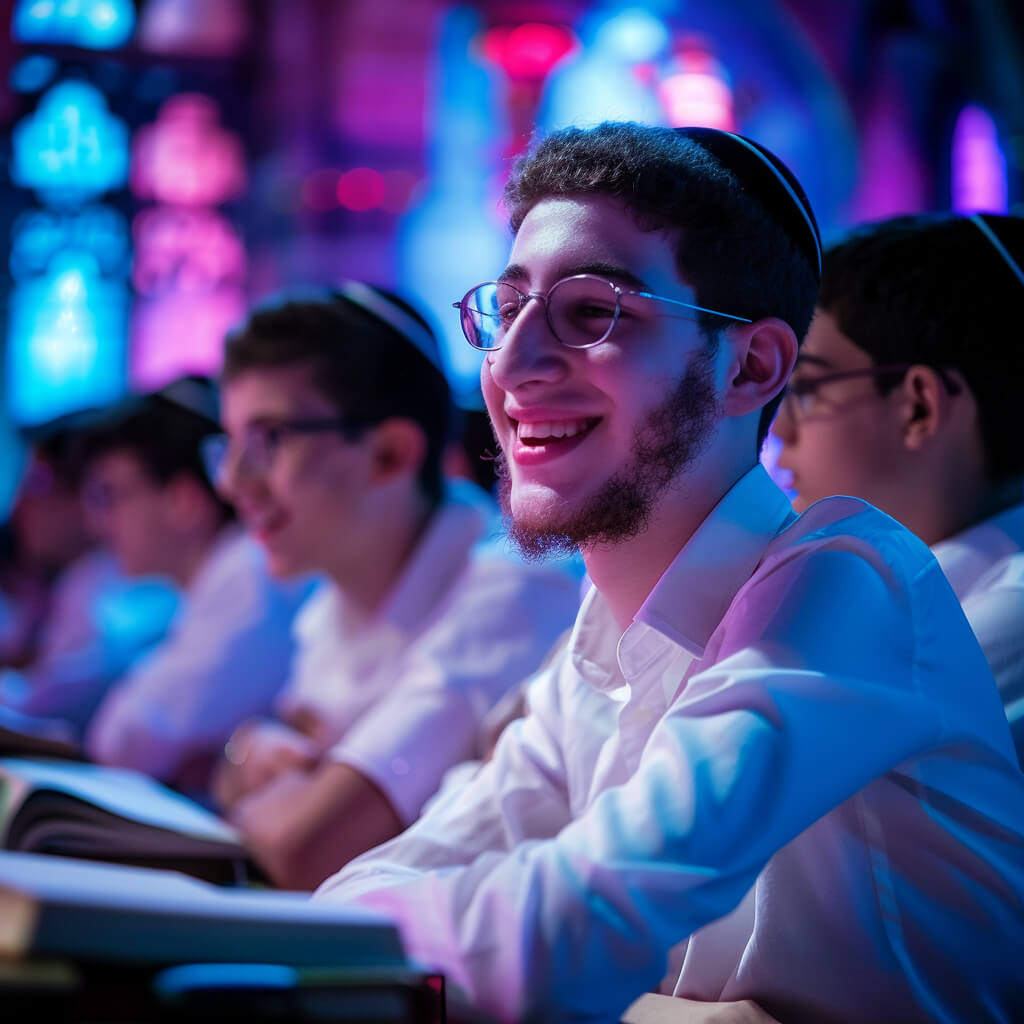
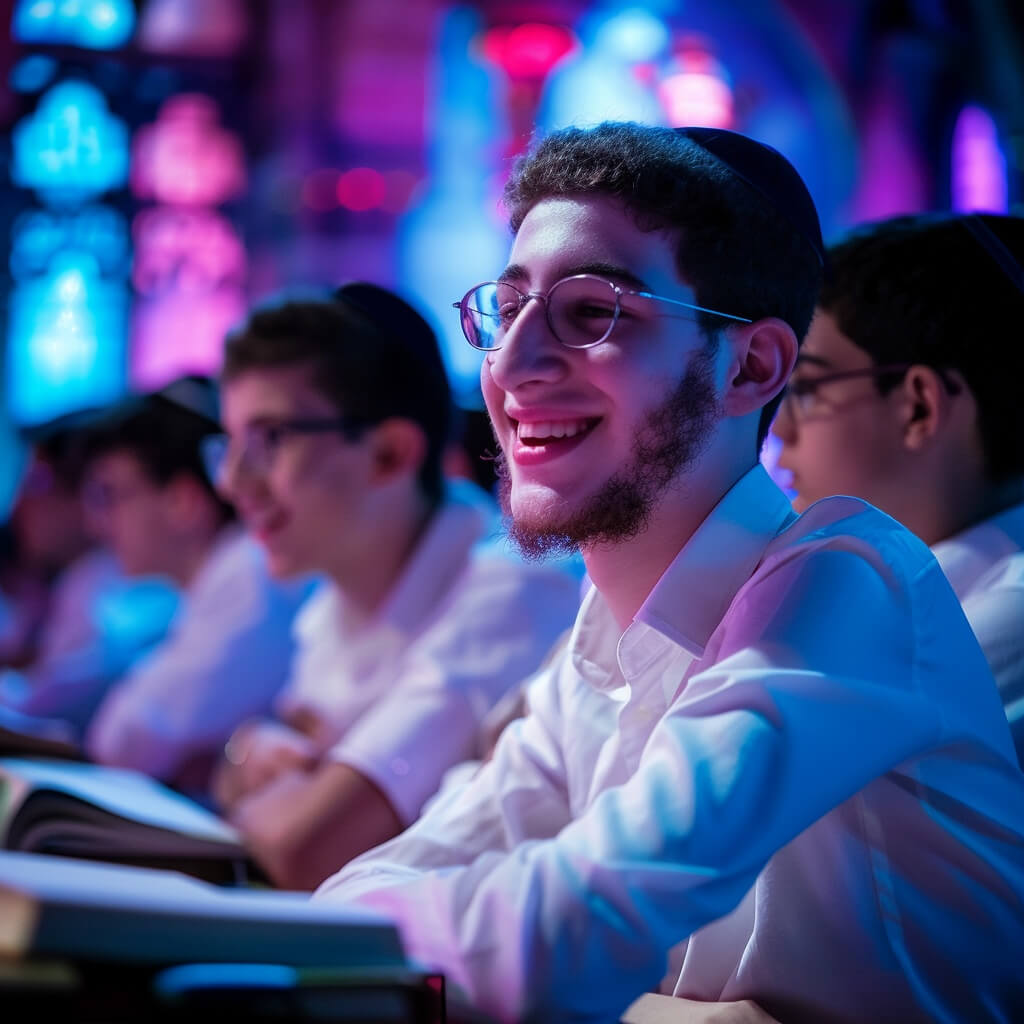
updated kippot, fixes

Changed region(s): [[0.6875, 0.0938, 0.8125, 0.25], [0.3125, 0.25, 0.4375, 0.375], [0.9375, 0.1875, 1.0, 0.2812]]

diff --git a/index.html b/index.html
@@ -84,7 +84,7 @@
 
       <!-- Content section -->
       <div class="mx-auto mt-20 max-w-6xl px-6 lg:px-8">
-        <div class="mx-auto max-w-2xl lg:mx-0 lg:max-w-none">
+        <div class="mx-auto max-w-4xl lg:mx-0 lg:max-w-none">
           <div class="grid max-w-xl grid-cols-1 gap-8 text-xl font-light tracking-wide text-gray-200 lg:max-w-none">
             <div>
               <p>Throughout the world, there are countless bachurim who are connecting to the teachings of Rebbe Nachman and finding new inspiration in avodas Hashem. These amazing neshamos yearn to
@@ -106,11 +106,11 @@
 
       <!-- Features section -->
       <div class="mx-auto mt-32 max-w-7xl px-6 sm:mt-40 lg:px-8">
-        <div class="mx-auto max-w-2xl lg:mx-0">
+        <div class="mx-auto max-w-4xl lg:mx-0">
           <h2 class="text-3xl font-bold tracking-tight text-white sm:text-4xl">Our Yeshiva Features</h2>
           <p class="mt-6 text-lg leading-8 text-gray-300">Our Yeshiva offers a unique set of benefits that hasn’t been available in any Yeshiva to date.</p>
         </div>
-        <dl class="mx-auto mt-16 grid max-w-2xl grid-cols-1 gap-8 text-base leading-7 text-lg text-gray-400 sm:grid-cols-2 lg:mx-0 lg:max-w-none lg:gap-x-16">
+        <dl class="mx-auto mt-16 grid max-w-4xl grid-cols-1 gap-8 text-base leading-7 text-lg text-gray-400 sm:grid-cols-2 lg:mx-0 lg:max-w-none lg:gap-x-16">
           <div class="relative pl-9">
             <dt class="inline font-semibold text-white">
               <svg class="absolute left-1 top-1 h-5 w-5 text-indigo-500" viewBox="0 0 20 20" fill="currentColor" aria-hidden="true">
@@ -190,8 +190,8 @@
       <!-- Twe Great Programs-->
 
       <div class="mx-auto mt-32 max-w-7xl px-6 sm:mt-40 lg:px-8">
-        <div class="mx-auto max-w-2xl lg:mx-0">
-          <h2 class="text-3xl font-bold tracking-tight text-white sm:text-4xl">Two Programs Under One Roof</h2>
+        <div class="mx-auto max-w-4xl lg:mx-0">
+          <h2 class="text-3xl font-bold tracking-tight text-white sm:text-4xl">Two Distinct Programs in Harmony</h2>
           <p class="mt-6 text-lg leading-8 text-gray-300">Our Yeshiva offers two unique programs with a dedicated Beis Medrash and uniquely qualified staff of Rebbeim carefully selected for each.</p>
         </div>
         <div class="grid grid-cols-1 md:grid-cols-2 gap-8 w-full mt-16">
@@ -346,23 +346,38 @@
 
       <!-- A Note about two programs-->
 
-      <div class="text-slate-300 font-thin font-xs mx-auto max-w-7xl px-6 lg:px-8 mt-8">
-        <p>These two programs operate independently from one another in separate batei midrash under the supervision of R’ Dovid Yisrael Kalmus as the Rosh HaMosdos. However, they also come together
-          for Thursday night events, Shabbosim, and special trips throughout the year. This gives the bachurim from each program the chance to gain from the unique virtues of the other program: the
-          frum bachurim can learn from the new excitement for Judaism of the baalei teshuvah, while the baalei teshuvah can learn from the knowledge and yiras Shamayim of the frum bachurim.</p>
+      <div class="text-lg text-white mx-auto max-w-4xl px-6 lg:px-8 mt-8">
+        <h2 class="font-semibold text-xl lg:text-2xl  mt-12">Unity in Diversity</h2>
 
 
 
-        <p class="mt-8">This is the true path of chassidus of the Baal Shem Tov, who explains that this is why we say “Elokeinu, v’Elokei avoseinu.” On the one hand, a person must be like a baal
-          teshuvah and search for his own unique connection to Hashem (as aspect of “Elokeinu”), while at the same time, he must have a solid foundation of yiras Shamayim as passed down to him from
-          previous generations (“Elokei avoseinu”).</p>
-      </div>
+        <p class="mt-4">The two programs operate independently in separate batei midrash, under the supervision of R’ Dovid Yisrael Kalmus as the Rosh HaMosdos. However, they come together for Thursday night events, Shabbosim, and special trips throughout the year. These shared experiences allow bachurim from each program to benefit from the unique strengths of the other: the frum bachurim gain from the baalei teshuvah’s renewed excitement for Judaism, while the baalei teshuvah are inspired by the knowledge and yiras Shamayim of the frum bachurim.</p>
+        <p class="mt-4">Together, these programs create a vibrant and dynamic yeshiva environment where every bachur can grow and thrive spiritually.</p>
+      </div>ֲ
   </div>
 
+  <!-- Rav Kivak -->
+  <div class="mx-auto mt-32 max-w-7xl px-6 sm:mt-40 lg:px-8">
+    <div class="mt-12 max-w-4xl lg:mx-0">
+      <h2 class="text-3xl font-bold tracking-tight text-white sm:text-4xl">Under the Guidance of Rabbi Nissan Dovid Kivak, Shlita</h2>
+      <div class="flex-row md:flex mt-6 ">
+        
+          <img src="rav-kivak-trans.png" class="rounded-2xl aspect-square h-48 md:h-64 w-48 md:w-64 bg-slate-500" />
+      
+        <p class="mt-8 md:mt-0 md:ml-8 md:text-lg leading-8 text-gray-200">All of this is under the guidance of Rabbi Nissan Dovid Kivak, shlita, one of the great leaders of the Breslov community today. Rabbi Kivak has
+          been moser nefesh to give countless shiurim over the past fifty years, establish several chedarim, yeshivos, and other institutions, and create tens of successful Breslov communities in
+          Eretz
+          Yisroel and abroad. He has also written many sefarim on the teachings of Rebbe Nachman. His influence and the influence of his talmidim has inspired countless people around the world. Thus,
+          his involvement and direction of The Breslov Yeshiva is an invaluable asset that is the foundation for great success.
 
+        </p>
+      </div>
+
+    </div>
+  </div>
   <!-- Team section -->
   <div class="mx-auto mt-32 max-w-7xl px-6 sm:mt-40 lg:px-8">
-    <div class="max-w-2xl lg:mx-0">
+    <div class="max-w-4xl lg:mx-0">
       <h2 class="text-3xl font-bold tracking-tight text-white sm:text-4xl">Our Dedicated Team of Rebbeim</h2>
       <p class="mt-6 text-lg leading-8 text-gray-300">Our incredibly talented team of Rebbeim offer unique support to students with extensive experience guiding both FFB Bachurim who've grown up
         within the Velt and with Ba'alei Teshuva building their new path towards Avodas HaShem, Torah and Mitzvos.</p>
@@ -377,7 +392,7 @@
             {name: 'Rabbi Shimon Fried', role:'Mashpia, The Living Torah Program', image:'shimshon.jpg'},
             {name: 'Rabbi Ben Tzion Rothman', role:'Maggid Shiur, The Exploration Program', image:'rothman.jpg'},
             ]
-        }" class=" mt-12 lg:mt-20 grid max-w-2xl grid-cols-1 gap-x-8 gap-y-6 lg:gap-y-14 sm:grid-cols-2 lg:mx-0 lg:max-w-none lg:grid-cols-3 xl:grid-cols-4">
+        }" class=" mt-12 lg:mt-20 grid max-w-4xl grid-cols-1 gap-x-8 gap-y-6 lg:gap-y-14 sm:grid-cols-2 lg:mx-0 lg:max-w-none lg:grid-cols-3 xl:grid-cols-4">
       <template x-for="rabbi in rabbis">
         <li class="flex flex-row lg:flex-col">
           <img :src="rabbi.image" class="rounded-2xl aspect-square h-20 lg:h-32 w-20 lg:w-32" />
@@ -389,91 +404,82 @@
       </template>
     </ul>
 
-    <div class="mt-12 max-w-2xl lg:mx-0">
-      <h2 class="text-3xl font-bold tracking-tight text-white sm:text-4xl">Under the Guidance of Rabbi Nissan Dovid Kivak, Shlita</h2>
-      <p class="mt-6 text-lg leading-8 text-gray-300">All of this is under the guidance of Rabbi Nissan Dovid Kivak, shlita, one of the great leaders of the Breslov community today. Rabbi Kivak has
-        been moser nefesh to give countless shiurim over the past fifty years, establish several chedarim, yeshivos, and other institutions, and create tens of successful Breslov communities in Eretz
-        Yisroel and abroad. He has also written many sefarim on the teachings of Rebbe Nachman. His influence and the influence of his talmidim has inspired countless people around the world. Thus,
-        his involvement and direction of The Breslov Yeshiva is an invaluable asset that is the foundation for great success.
 
-      </p>
-    </div>
   </div>
 
 
 
-  
 
 
 
 
-    <!-- CTA section -->
-    <div id="register" class="relative isolate mt-12 lg:mt-32 px-6 lg:px-32">
-      <div class="mx-auto sm:px-6 lg:px-8">
-        <div class="mx-auto flex flex-col bg-white/5 px-6 py-16 ring-1 ring-white/10 rounded-xl lg:rounded-2xl sm:p-8 lg:mx-0 lg:flex-row lg:items-center lg:py-20">
-          <div class="w-full flex-col items-center">
-            <h2 class="text-3xl font-bold tracking-tight text-white sm:text-4xl text-center">Register Now For This Year
-            </h2>
-            <p class="mt-6 text-lg leading-8 text-gray-300 text-center">Join our incredible family of Talmidim and Rebbeim full of simcha and inspiration.</p>
-            <div class="mt-10 flex">
-              <!-- FORM GOES HERE-->
 
-              <form action="https://formspree.io/f/meojeeyg" method="POST" class="z-50 max-w-3xl w-full lg:w-5xl mx-auto">
-                <div class="mx-auto">
-                  <div class="grid grid-cols-1 gap-x-8 gap-y-6 sm:grid-cols-2">
-                    <div>
-                      <label for="first-name" class="block text-sm font-semibold leading-6 text-white">First name</label>
-                      <div class="mt-2.5">
-                        <input type="text" name="first-name" id="first-name" autocomplete="given-name"
-                          class="block w-full rounded-md border-0 bg-white/5 px-3.5 py-2 text-white shadow-sm ring-1 ring-inset ring-white/10 focus:ring-2 focus:ring-inset focus:ring-indigo-500 sm:text-sm sm:leading-6" />
-                      </div>
-                    </div>
-                    <div>
-                      <label for="last-name" class="block text-sm font-semibold leading-6 text-white">Last name</label>
-                      <div class="mt-2.5">
-                        <input type="text" name="last-name" id="last-name" autocomplete="family-name"
-                          class="block w-full rounded-md border-0 bg-white/5 px-3.5 py-2 text-white shadow-sm ring-1 ring-inset ring-white/10 focus:ring-2 focus:ring-inset focus:ring-indigo-500 sm:text-sm sm:leading-6" />
-                      </div>
-                    </div>
-                    <div class="sm:col-span-2">
-                      <label for="email" class="block text-sm font-semibold leading-6 text-white">Email</label>
-                      <div class="mt-2.5">
-                        <input type="email" name="email" id="email" autocomplete="email"
-                          class="block w-full rounded-md border-0 bg-white/5 px-3.5 py-2 text-white shadow-sm ring-1 ring-inset ring-white/10 focus:ring-2 focus:ring-inset focus:ring-indigo-500 sm:text-sm sm:leading-6" />
-                      </div>
-                    </div>
-                    <div class="sm:col-span-2">
-                      <label for="phone-number" class="block text-sm font-semibold leading-6 text-white">Phone number</label>
-                      <div class="mt-2.5">
-                        <input type="tel" name="phone-number" id="phone-number" autocomplete="tel"
-                          class="block w-full rounded-md border-0 bg-white/5 px-3.5 py-2 text-white shadow-sm ring-1 ring-inset ring-white/10 focus:ring-2 focus:ring-inset focus:ring-indigo-500 sm:text-sm sm:leading-6" />
-                      </div>
-                    </div>
-                    <div class="sm:col-span-2">
-                      <label for="program" class="block text-sm font-semibold leading-6 text-white">Program</label>
-                      <div class="mt-2.5">
-                        <select id="program" name="program"
-                          class="block w-full rounded-md border-0 bg-white/5 py-2.5 text-white shadow-sm ring-1 ring-inset ring-white/10 focus:ring-2 focus:ring-inset focus:ring-indigo-500 sm:text-sm sm:leading-6 [&_*]:text-black">
-                          <option>The Exploration Program (For Baalei
-                            Teshuva)</option>
-                          <option>The Living Torah Program (For FFB
-                            Bachurim)</option>
-                        </select>
-                      </div>
+  <!-- CTA section -->
+  <div id="register" class="relative isolate mt-12 lg:mt-32 px-6 lg:px-32">
+    <div class="mx-auto sm:px-6 lg:px-8">
+      <div class="mx-auto flex flex-col bg-white/5 px-6 py-16 ring-1 ring-white/10 rounded-xl lg:rounded-2xl sm:p-8 lg:mx-0 lg:flex-row lg:items-center lg:py-20">
+        <div class="w-full flex-col items-center">
+          <h2 class="text-3xl font-bold tracking-tight text-white sm:text-4xl text-center">Register Now For This Year
+          </h2>
+          <p class="mt-6 text-lg leading-8 text-gray-300 text-center">Join our incredible family of Talmidim and Rebbeim full of simcha and inspiration.</p>
+          <div class="mt-10 flex">
+            <!-- FORM GOES HERE-->
+
+            <form action="https://formspree.io/f/meojeeyg" method="POST" class="z-50 max-w-3xl w-full lg:w-5xl mx-auto">
+              <div class="mx-auto">
+                <div class="grid grid-cols-1 gap-x-8 gap-y-6 sm:grid-cols-2">
+                  <div>
+                    <label for="first-name" class="block text-sm font-semibold leading-6 text-white">First name</label>
+                    <div class="mt-2.5">
+                      <input type="text" name="first-name" id="first-name" autocomplete="given-name"
+                        class="block w-full rounded-md border-0 bg-white/5 px-3.5 py-2 text-white shadow-sm ring-1 ring-inset ring-white/10 focus:ring-2 focus:ring-inset focus:ring-indigo-500 sm:text-sm sm:leading-6" />
                     </div>
                   </div>
-                  <div class="mt-8 flex justify-end">
-                    <button type="submit"
-                      class="w-full rounded-md bg-blue-500 px-3.5 py-2.5 text-center text-sm font-semibold text-white shadow-sm hover:bg-blue-400 focus-visible:outline focus-visible:outline-2 focus-visible:outline-offset-2 focus-visible:outline-indigo-500">Submit</button>
+                  <div>
+                    <label for="last-name" class="block text-sm font-semibold leading-6 text-white">Last name</label>
+                    <div class="mt-2.5">
+                      <input type="text" name="last-name" id="last-name" autocomplete="family-name"
+                        class="block w-full rounded-md border-0 bg-white/5 px-3.5 py-2 text-white shadow-sm ring-1 ring-inset ring-white/10 focus:ring-2 focus:ring-inset focus:ring-indigo-500 sm:text-sm sm:leading-6" />
+                    </div>
+                  </div>
+                  <div class="sm:col-span-2">
+                    <label for="email" class="block text-sm font-semibold leading-6 text-white">Email</label>
+                    <div class="mt-2.5">
+                      <input type="email" name="email" id="email" autocomplete="email"
+                        class="block w-full rounded-md border-0 bg-white/5 px-3.5 py-2 text-white shadow-sm ring-1 ring-inset ring-white/10 focus:ring-2 focus:ring-inset focus:ring-indigo-500 sm:text-sm sm:leading-6" />
+                    </div>
+                  </div>
+                  <div class="sm:col-span-2">
+                    <label for="phone-number" class="block text-sm font-semibold leading-6 text-white">Phone number</label>
+                    <div class="mt-2.5">
+                      <input type="tel" name="phone-number" id="phone-number" autocomplete="tel"
+                        class="block w-full rounded-md border-0 bg-white/5 px-3.5 py-2 text-white shadow-sm ring-1 ring-inset ring-white/10 focus:ring-2 focus:ring-inset focus:ring-indigo-500 sm:text-sm sm:leading-6" />
+                    </div>
+                  </div>
+                  <div class="sm:col-span-2">
+                    <label for="program" class="block text-sm font-semibold leading-6 text-white">Program</label>
+                    <div class="mt-2.5">
+                      <select id="program" name="program"
+                        class="block w-full rounded-md border-0 bg-white/5 py-2.5 text-white shadow-sm ring-1 ring-inset ring-white/10 focus:ring-2 focus:ring-inset focus:ring-indigo-500 sm:text-sm sm:leading-6 [&_*]:text-black">
+                        <option>The Exploration Program</option>
+                        <option>The Living Torah Program</option>
+                        <option>Not sure which program is right for me</option>
+                      </select>
+                    </div>
                   </div>
                 </div>
-              </form>
-            </div>
+                <div class="mt-8 flex justify-end">
+                  <button type="submit"
+                    class="w-full rounded-md bg-blue-500 px-3.5 py-2.5 text-center text-sm font-semibold text-white shadow-sm hover:bg-blue-400 focus-visible:outline focus-visible:outline-2 focus-visible:outline-offset-2 focus-visible:outline-indigo-500">Submit</button>
+                </div>
+              </div>
+            </form>
           </div>
         </div>
       </div>
-      <div class="absolute inset-x-0 -top-72 -z-10 flex transform-gpu justify-center overflow-hidden blur-3xl" aria-hidden="true">
-        <div class="aspect-[1318/752] w-[82.375rem] flex-none bg-gradient-to-r from-[#80caff] to-[#4f46e5] opacity-25" style="
+    </div>
+    <div class="absolute inset-x-0 -top-72 -z-10 flex transform-gpu justify-center overflow-hidden blur-3xl" aria-hidden="true">
+      <div class="aspect-[1318/752] w-[82.375rem] flex-none bg-gradient-to-r from-[#80caff] to-[#4f46e5] opacity-25" style="
                 clip-path: polygon(
                   73.6% 51.7%,
                   91.7% 11.8%,
@@ -493,24 +499,24 @@
                   73.6% 51.7%
                 );
               "></div>
-      </div>
     </div>
-    </main>
+  </div>
+  </main>
 
-    <!-- Footer -->
-    <footer class="relative mt-32 sm:mt-40" aria-labelledby="footer-heading">
-      <h2 id="footer-heading" class="sr-only">Footer</h2>
-      <div class="mx-auto max-w-7xl px-6 pb-8 lg:px-8">
-        <div class="mt-16 border-t border-white/10 pt-8 sm:mt-20 lg:mt-24">
-          <div class="flex w-full justify-between">
-            <p class="text-xs leading-5 text-gray-400 text-center">
-              &copy; 2024 The Breslov Yeshiva. All rights reserved.
-            </p>
-            <img class="h-10" src="logo-white.png" alt="The Breslov Yeshiva" />
-          </div>
+  <!-- Footer -->
+  <footer class="relative mt-32 sm:mt-40" aria-labelledby="footer-heading">
+    <h2 id="footer-heading" class="sr-only">Footer</h2>
+    <div class="mx-auto max-w-7xl px-6 pb-8 lg:px-8">
+      <div class="mt-16 border-t border-white/10 pt-8 sm:mt-20 lg:mt-24">
+        <div class="flex w-full justify-between">
+          <p class="text-xs leading-5 text-gray-400 text-center">
+            &copy; 2024 The Breslov Yeshiva. All rights reserved.
+          </p>
+          <img class="h-10" src="logo-white.png" alt="The Breslov Yeshiva" />
         </div>
       </div>
-    </footer>
+    </div>
+  </footer>
   </div>
 </body>
 
